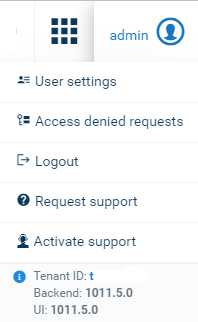
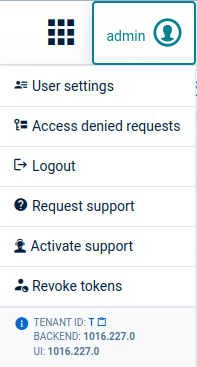
MTM-49511 revoke tokens documentation

diff --git a/content/users-guide/getting-started-bundle/user-settings.md b/content/users-guide/getting-started-bundle/user-settings.md
@@ -47,6 +47,13 @@ The **User** menu contains the following items:
 Note that this option is only available if support user access is not set globally for subtenant users in the {{< management-tenant >}}, for details see <a href="/users-guide/enterprise-tenant/#support-user-access" class="no-ajaxy">Support user access</a>. After the support user access has been activated, the menu item switches to <strong>Deactivate support</strong>. If your support request has been resolved but the duration for the support user access is not expired (24 hours per default) you can actively disable an active support user request here.</td>
 </tr>
 <tr>
+<td style="text-align:left">Revoke tokens</td>
+<td style="text-align:left">Revoking tokens will log out all users logged with "OAI-Secure" or "Single sign-on redirect". All devices connected by JWT token will be disconnected.<br>
+<br>
+To revoke tokens, the user must have the permission ROLE_USER_MANAGEMENT_ADMIN.
+</td>
+</tr>
+<tr>
 <td style="text-align:left">Version information</td>
 <td style="text-align:left">Shows release information on the {{< product-c8y-iot >}} version you are using (for example, 10.13.0.034) for both Backend and UI. Moreover shows the ID of your tenant, which might be required if you request support. Click the copy icon next to the tenant ID to copy it to the clipboard.</td>
 </tr>

diff --git a/content/users-guide/administration-bundle/managing-users.md b/content/users-guide/administration-bundle/managing-users.md
@@ -180,3 +180,11 @@ Click the menu icon at the right of the respective row and then click **Delete**
 {{< c8y-admon-info >}}
 You need a role with user management permission to perform this option.
 {{< /c8y-admon-info >}}
+
+### To revoke user tokens
+
+Click **Revoke tokens** button on the right of the top menu bar. Revoking tokens will log out all users logged with "OAI-Secure" or "Single sign-on redirect". All devices connected by JWT token will be disconnected.
+
+{{< c8y-admon-info >}}
+To revoke tokens, you must have the permission ROLE_USER_MANAGEMENT_ADMIN.
+{{< /c8y-admon-info >}}
